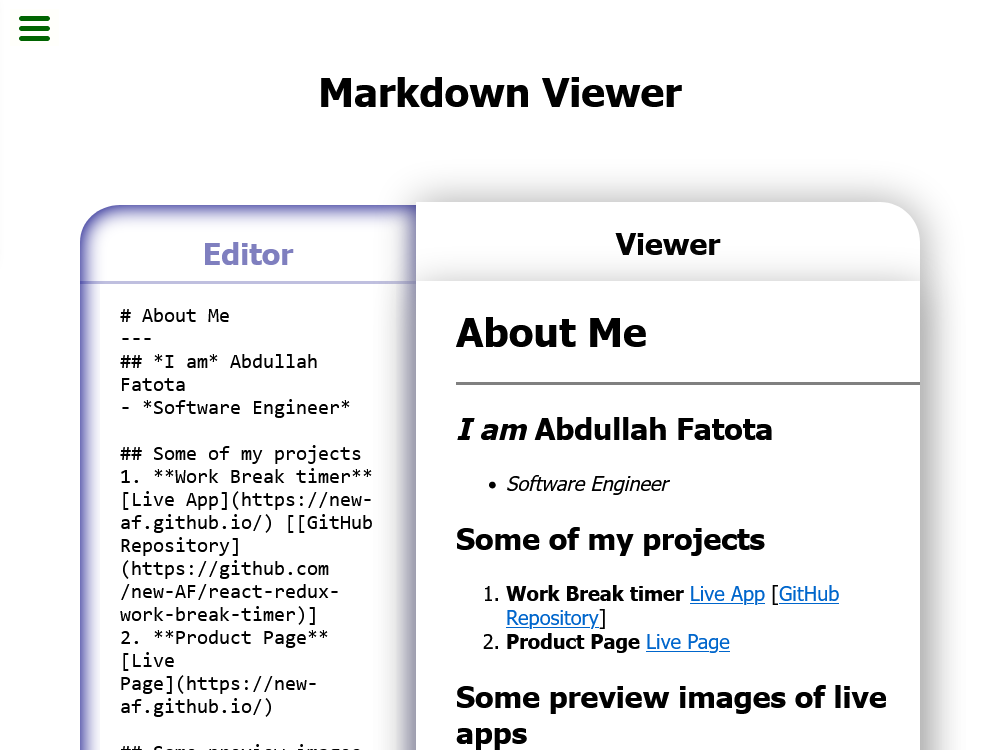
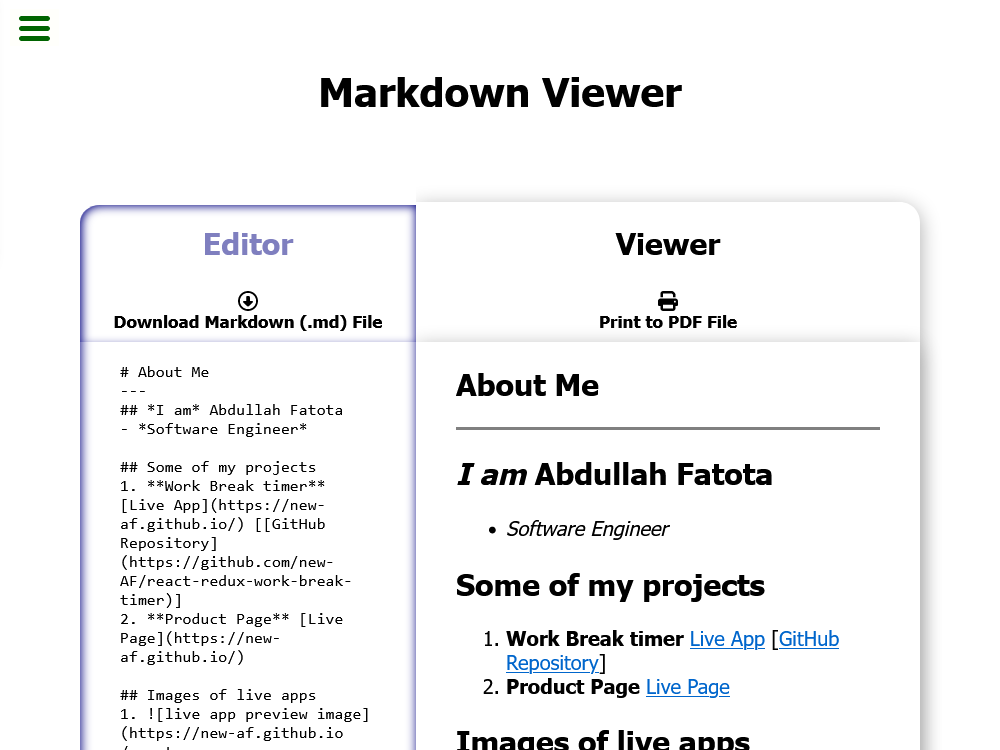
update README.md and preview image

Changed region(s): [[0.062, 0.276, 0.961, 1.0], [0.899, 0.276, 0.93, 0.3067]]

diff --git a/README.md b/README.md
@@ -1,9 +1,24 @@
-# Markdown Previewer
+# Markdown Viewer
 
-Render Markdown text as you type, for example, #Header 1 , is converted to styled and formatted text as **Header 1**.
+Render plaintext Markdown input to styled and formatted output as you type.
 
-Supported features include Headers, Code Blocks, Links, Ordered and Unordered lists and Embedded Images.
+## Supported features
+
+-   Save rendered Output as PDF file through Browser's Print Dialogue.
+-   Download Input as plaintext `.md` file.
+
+### Supported Markdown features include
+
+-   Headers
+-   Unhighlighted Inline Code Snippets
+-   Highlighted Code Blocks
+-   Links, Ordered and Unordered lists
+-   Linked Images
+
+## Run the App
 
 [Run the App!](https://new-af.github.io/react-markown-previewer/)
+
+## App Preview
 
 <img src="./public/preview.png" alt="preview image of live app"/>
